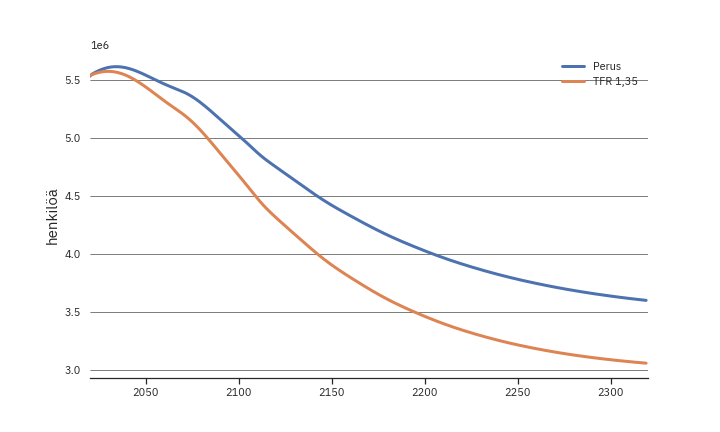
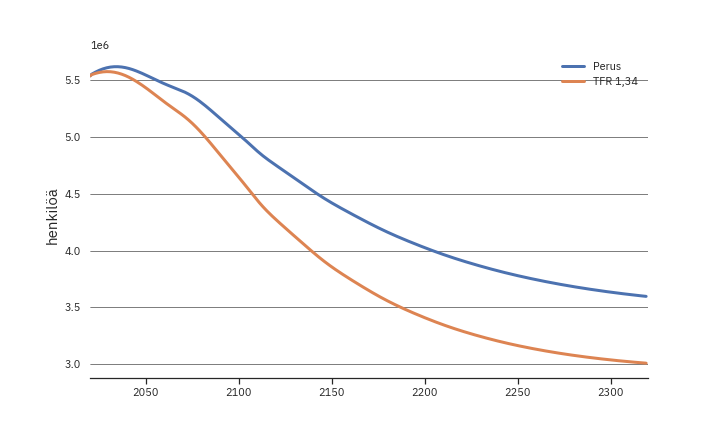
135

diff --git a/_posts/2022-11-21-diy-vaestoennuste.md b/_posts/2022-11-21-diy-vaestoennuste.md
@@ -65,9 +65,9 @@ asuu Suomessa vuonna 3000 selvästi nykyistä vähemmän väkeä, noin 3,6 miljo
 vuonna 2500, minkä jälkeen kuolleisuuden aleneminen kasvattaa hitaasti erittäin ikääntyneen väestön määrää.
 
 ![Tuotot](/images/demog/popcomp135.png)<br>
-Kuvio 5. Väestön määrä Perusversiossa (TFR 1,45) ja viimeisimman 12 kk keskiarvon mukaisessa hedelmällisyysluvun 1,35 väestöennusteessa.
+Kuvio 5. Väestön määrä Perusversiossa (TFR 1,45) ja viimeisimman 12 kk keskiarvon mukaisessa hedelmällisyysluvun 1,34 väestöennusteessa.
 
-Viimeisten 12 kuukauden aikana kokonaishedelmällisyysluku on laskenut 1,35:een. Kuvio 5
+[Viimeisten 12 kuukauden aikana](https://www.stat.fi/julkaisu/cktlgh6ns3ets0c55ztr6li2f) kokonaishedelmällisyysluku on laskenut 1,34:een. Kuvio 5
 näyttää, miten tämä vaikuttaa väestön määrään.
 
 Entä jos?
